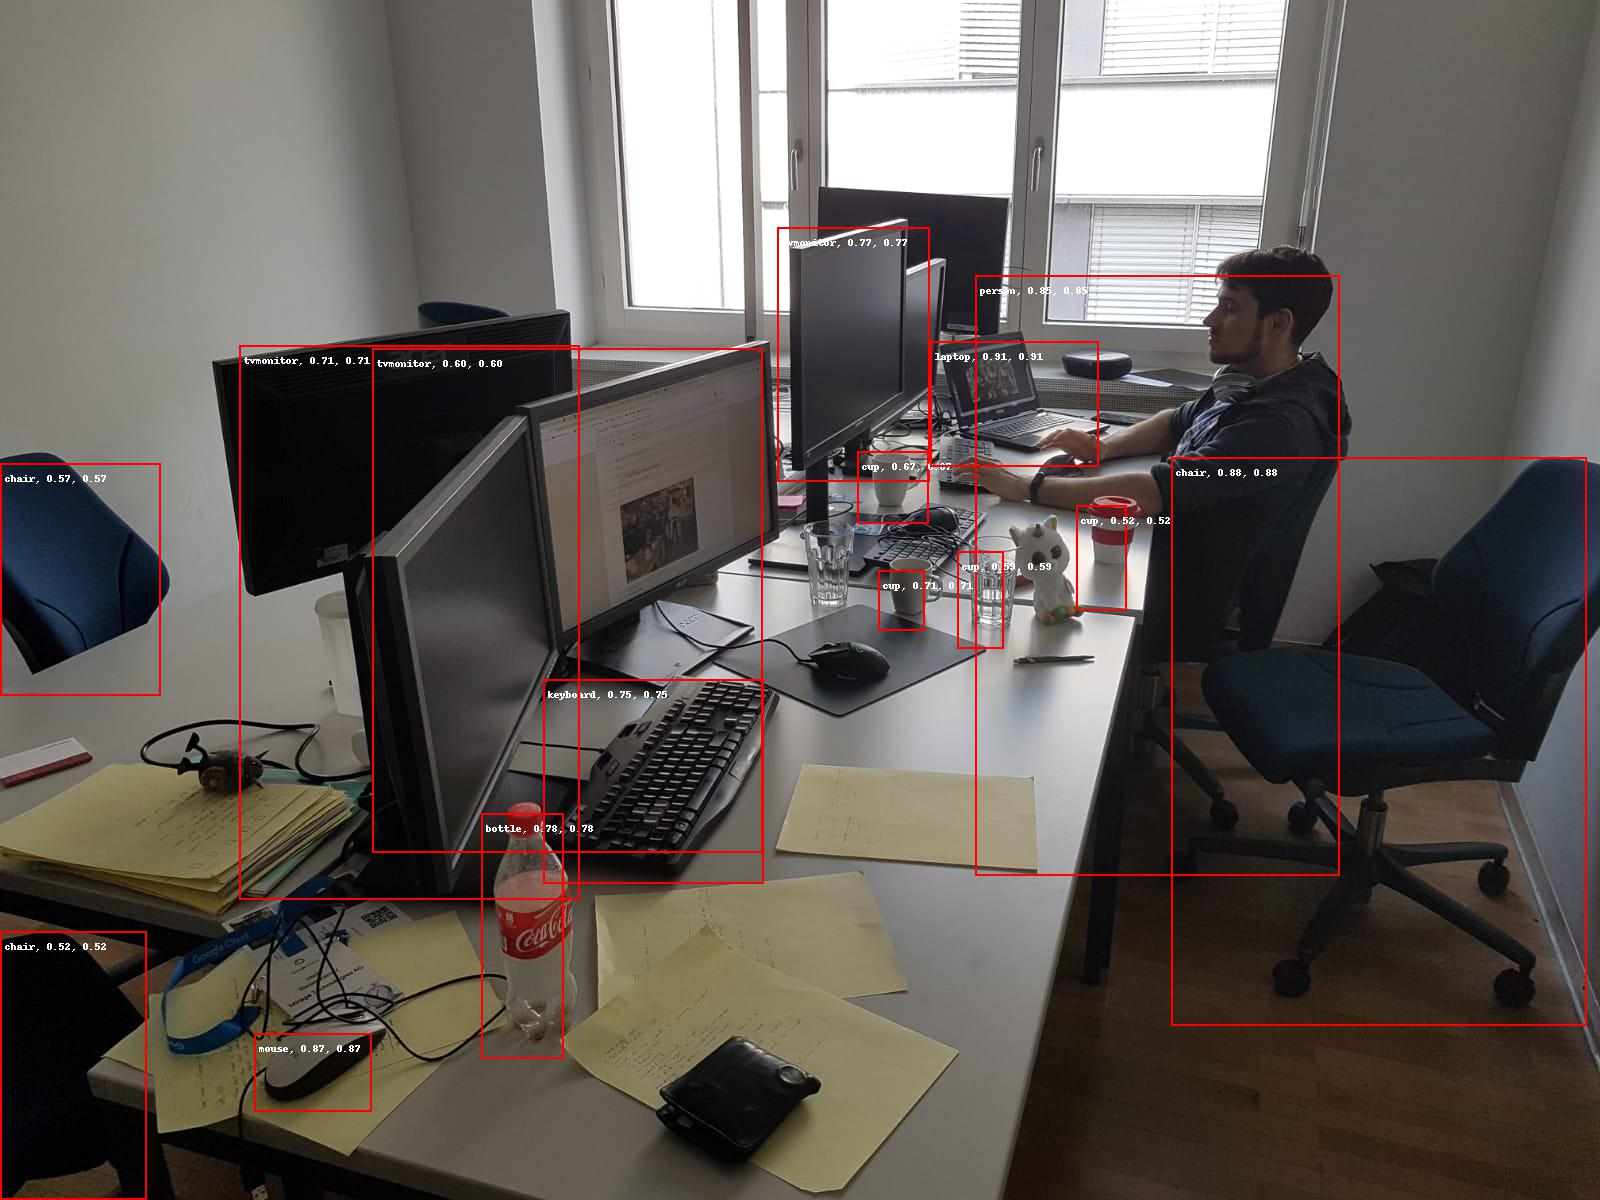
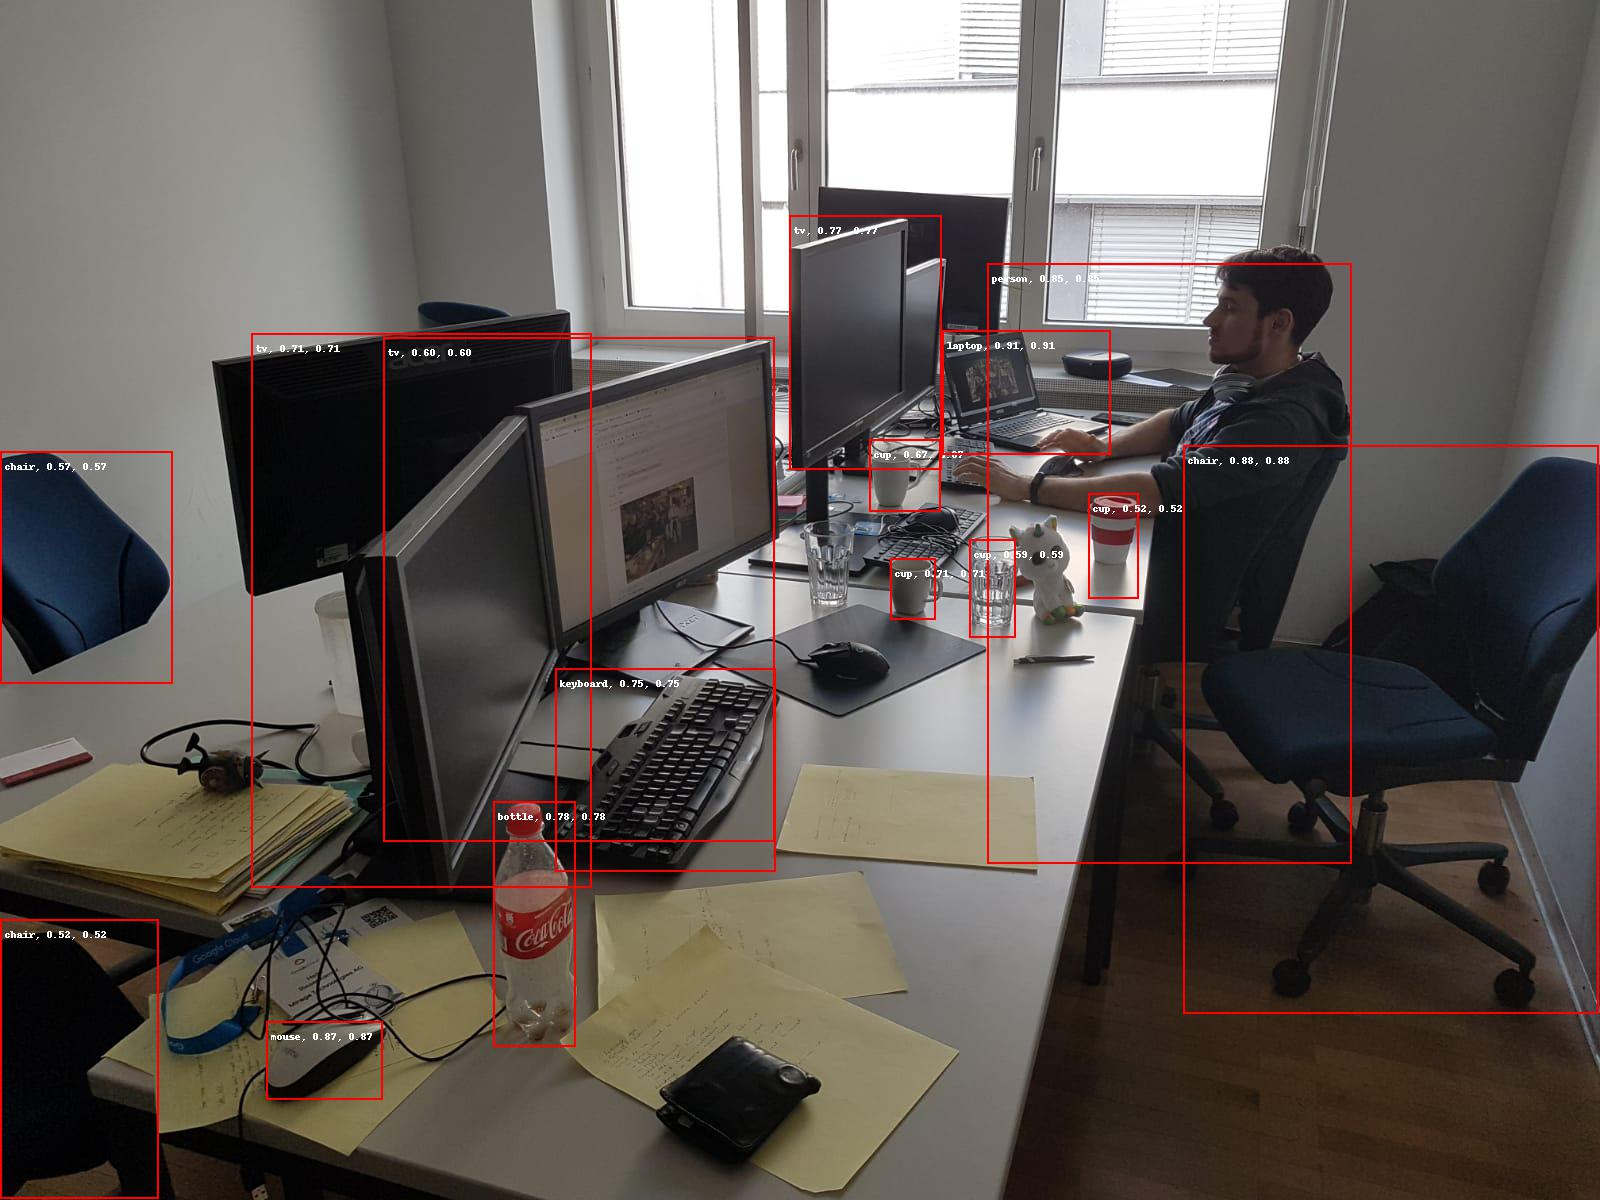
Migration to rocketbase. Change ssd rocket. (#10)
* Migration to rocketbase. Change ssd rocket.

Switch from rockethub package to rocketbase pip package.
Replace ssd Rocket experiments with Retinanet101 Rocket.

* Removed unused dependencies

* Remove the requirements.txt file as installing rocketbase is now sufficient

* Remove one empty line

diff --git a/detect.py b/detect.py
@@ -1,8 +1,5 @@
-import inspect, os
-
 import torch
-from torch.autograd import Variable
-from rockethub import Rocket
+from rocketbase import Rocket
 from PIL import Image
 
 # --- LOAD IMAGE ---
@@ -15,8 +12,8 @@ img = Image.open(image_path)
 
 # --- LOAD ROCKET ---
 # Select the Rocket you want to test
-rocket = "lucas/ssd"
-# rocket = "igor/retinanet"
+rocket = "igor/retinanet"
+# rocket = "igor/retinanet-resnet101-800px"
 # rocket = "lucas/yolov3"
 
 model = Rocket.land(rocket).eval()
@@ -39,6 +36,4 @@ print(*bboxes_out, sep='\n')
 img_out = model.postprocess(out, img, visualize=True)
 img_out_path = 'out.jpg'
 img_out.save(img_out_path)
-print('You can see the detections on the image: \'' + img_out_path +'\'.')
-
-
+print('You can see the detections on the image: \'' + img_out_path + '\'.')

diff --git a/README.md b/README.md
@@ -1,4 +1,4 @@
-# PyTorch Rocket Yolov3 RetinaNet SSD - Tutorial 2: A Tale of 3 Rockets
+# PyTorch Rocket Yolov3 RetinaNet50, RetinaNet101 - Tutorial 2: A Tale of 3 Rockets
     Have you ever wanted to test multiple Deep Learning models and compare their results very easily?
 
     Are you tired of picking a Deep Learning model just because it is the only one you are able to run?
@@ -10,20 +10,23 @@ We are calling those new way of packaging Deep Learning models: __Rockets__.
 __Welcome to the Rockets Scientists Community!!!__
 
 ## Install the repositories
-We recommend you to use an isolated Python environement such as [virtualenv](https://virtualenv.pypa.io/en/latest/) or [conda](https://docs.conda.io/en/latest/) with at least __Python 3.5__. Then you can use the following lines of code:
+We recommend you to use an isolated Python environement such as [virtualenv](https://virtualenv.pypa.io/en/latest/) or [conda](https://docs.conda.io/en/latest/) with at least __Python 3.6__. Then you can use the following lines of code:
 ```
-git clone https://github.com/LucasVandroux/PyTorch-Rocket-YOLOv3-RetinaNet-SSD
-cd PyTorch-Rocket-YOLOv3-RetinaNet-SSD
-pip install -r requirements.txt
+git clone https://github.com/LucasVandroux/PyTorch-Rocket-YOLOv3-RetinaNet50-RetinaNet101
+cd PyTorch-Rocket-YOLOv3-RetinaNet50-RetinaNet101
+pip install rocketbase
 ```
 ### Install PyTorch
 As the installation for PyTorch is different for each platform, you need to look at the [PyTorch installation guide](https://pytorch.org/get-started/locally/). Don't worry it is very simple, maximum 2 lines of codes :stuck_out_tongue_closed_eyes:
 
 ## A Tale of 3 Rockets
 For this first tutorial, we selected three state-of-the-art models in Object Detection for you to play with:
-1. SSD: Single Shot MultiBox Detector ___[[paper]](https://arxiv.org/pdf/1512.02325.pdf)___
-2. RetinaNet ___[[paper]](https://arxiv.org/pdf/1708.02002.pdf)___
+
+1. RetinaNet with a resnet50 backbone and smaller dimension resized to 608px ___[[paper]](https://arxiv.org/pdf/1708.02002.pdf)___
+2. RetinaNet with a resnet101 backbone and smaller dimension resized to 800px ___[[paper]](https://arxiv.org/pdf/1708.02002.pdf)___
 3. YOLOv3 ___[[paper]](https://pjreddie.com/media/files/papers/YOLOv3.pdf)___
+
+> Note that the RetinaNet Rocket with the resnet50 backbone can be landed using `igor/resnet`. This Rocket is the default RetinaNet Rocket. To land another version we suggest to use a specific slug such as `igor/retinanet-resnet101-800px`.
 
 ## Run the Object Detection model
 Everything is happening in the `detect.py` file. There you can choose which image and model to use with just one line of code.
@@ -33,11 +36,11 @@ Once you are ready you just need to run `python detect.py` and everything will h
 Don't hesitate to play around by swapping the different Rockets and comparing their output.
 
 ## Outputs of the different Rockets
-| Filename | Original | SSD | RetinaNet | YOLOv3 | Google Vision AI |
+| Filename | Original | RetinaNet | RetinaNet101 | YOLOv3 | Google Vision AI |
 |----------|----------|-----------|-----|--------|------------------|
-| `office.jpg` | ![image-original-office](images/office.jpg) | ![image-ssd-office](images/detections/ssd/office.jpg) | ![image-retinanet-office](images/detections/retinanet/office.jpg)|![image-yolov3-office](images/detections/yolov3/office.jpg)|![image-googleAPI-office](images/detections/googleAPI/office.jpg)|
-|`shop.jpg`|![image-original-shop](images/shop.jpg)|![image-ssd-shop](images/detections/ssd/shop.jpg)|![image-retinanet-shop](images/detections/retinanet/shop.jpg)|![image-yolov3-shop](images/detections/yolov3/shop.jpg)|![image-googleAPI-shop](images/detections/googleAPI/shop.jpg)|
-|`street.jpg`|![image-original-street](images/street.jpg)|![image-ssd-street](images/detections/ssd/street.jpg)|![image-retinanet-street](images/detections/retinanet/street.jpg)|![image-yolov3-street](images/detections/yolov3/street.jpg)|![image-googleAPI-street](images/detections/googleAPI/street.jpg)|
+| `office.jpg` | ![image-original-office](images/office.jpg)|![image-retinanet-office](images/detections/retinanet/office.jpg)|![image-retinanet101-office](images/detections/retinanet-resnet101-800px/office.jpg)|![image-yolov3-office](images/detections/yolov3/office.jpg)|![image-googleAPI-office](images/detections/googleAPI/office.jpg)|
+|`shop.jpg`|![image-original-shop](images/shop.jpg)|![image-retinanet-shop](images/detections/retinanet/shop.jpg)|![image-retinanet101-shop](images/detections/retinanet-resnet101-800px/shop.jpg)|![image-yolov3-shop](images/detections/yolov3/shop.jpg)|![image-googleAPI-shop](images/detections/googleAPI/shop.jpg)|
+|`street.jpg`|![image-original-street](images/street.jpg)|![image-retinanet-street](images/detections/retinanet/street.jpg)|![image-retinanet101-street](images/detections/retinanet-resnet101-800px/street.jpg)|![image-yolov3-street](images/detections/yolov3/street.jpg)|![image-googleAPI-street](images/detections/googleAPI/street.jpg)|
 
 We added the outputs from the [Google Vision AI](https://cloud.google.com/vision/) to compare with the results of our Rockets.
 
